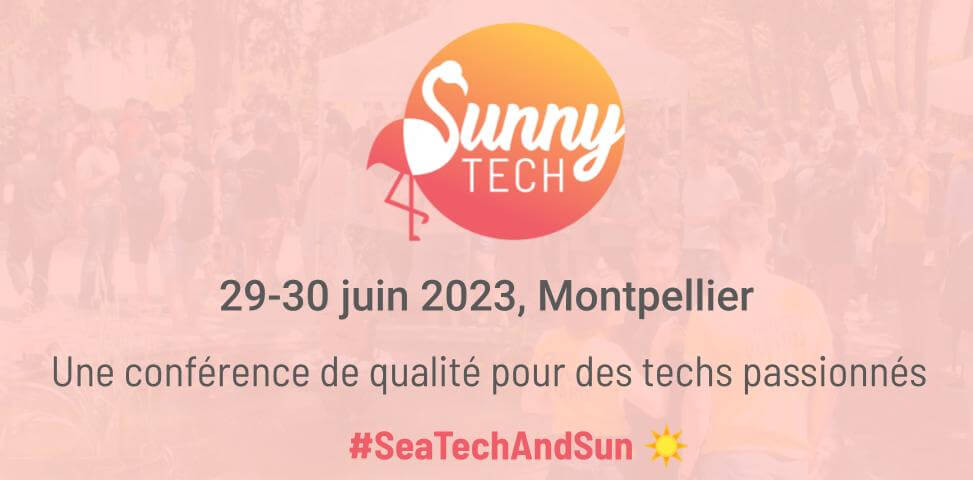
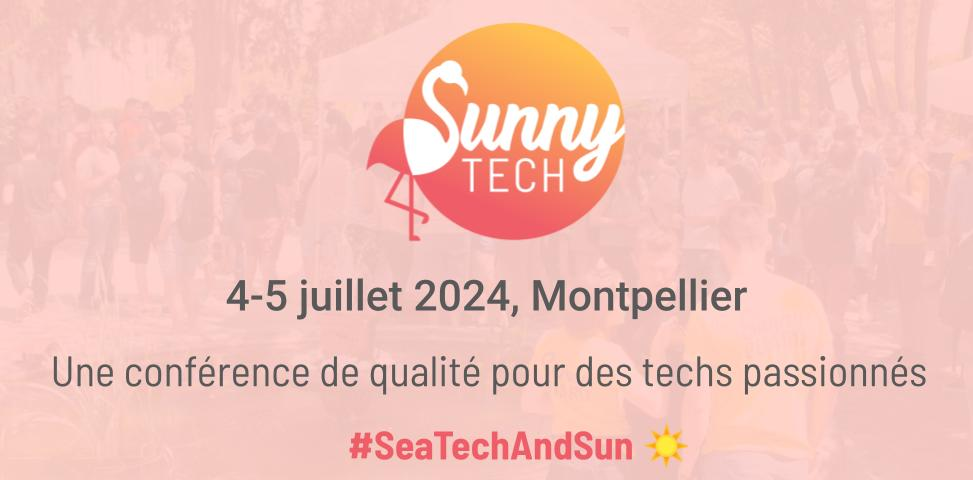
Gen 27 - new website for new edition (#175)
* feat(GEN-27): update dates

* feat: update previous sunnytech links

* feat: remove tickets block

* feat: hide speakers and schedule links

* feat: add galery button in header

* feat: update html meta image

Changed region(s): [[0.2158, 0.5625, 0.7708, 0.6875]]

diff --git a/src/pages/home-page.ts b/src/pages/home-page.ts
@@ -180,13 +180,19 @@ export class HomePage extends ReduxMixin(PolymerElement) {
 <!--                [[viewHighlights]]-->
 <!--              </paper-button>-->
 <!--            </a>-->
-            <a
+
+            <a href$="[[heroSettings.callToAction.link]]" target="_blank" rel="noopener noreferrer">
+              <paper-button class="buy-button" primary>[[heroSettings.callToAction.label]]</paper-button>
+            </a>
+
+            <!-- <a
               href="/schedule"
             >
               <paper-button  primary>
                 Programme
               </paper-button>
             </a>
+            -->
 <!--            <paper-button on-click="scrollToTickets" primary invert>-->
 <!--              <iron-icon icon="hoverboard:ticket"></iron-icon>-->
 <!--              [[buyTicket]]-->
@@ -264,7 +270,7 @@ export class HomePage extends ReduxMixin(PolymerElement) {
 <!--      <about-conference-block></about-conference-block>-->
 <!--      <speakers-block></speakers-block>-->
       <subscribe-block></subscribe-block>
-      <tickets-block id="tickets"></tickets-block>
+<!--      <tickets-block id="tickets"></tickets-block>-->
       <gallery-block></gallery-block>
       <about-organizer-block></about-organizer-block>
 <!--      <featured-videos></featured-videos>-->

diff --git a/src/components/about-block.ts b/src/components/about-block.ts
@@ -68,7 +68,7 @@ export class AboutBlock extends ThemedElement {
         <div>
           <h1 class="container-title">${aboutBlock.title}</h1>
           <p>${aboutBlock.callToAction.featuredSessions.description}</p>
-          <a
+          <!-- <a
             href="${aboutBlock.callToAction.featuredSessions.link}"
             target="_blank"
             rel="noopener noreferrer"
@@ -77,7 +77,7 @@ export class AboutBlock extends ThemedElement {
               <span class="cta-label">${aboutBlock.callToAction.featuredSessions.label}</span>
               <iron-icon icon="hoverboard:arrow-right-circle"></iron-icon>
             </paper-button>
-          </a>
+          </a> -->
 
           <p>${aboutBlock.callToAction.howItWas.description}</p>
           <paper-button class="animated icon-right" @click="${this.playVideo}">
